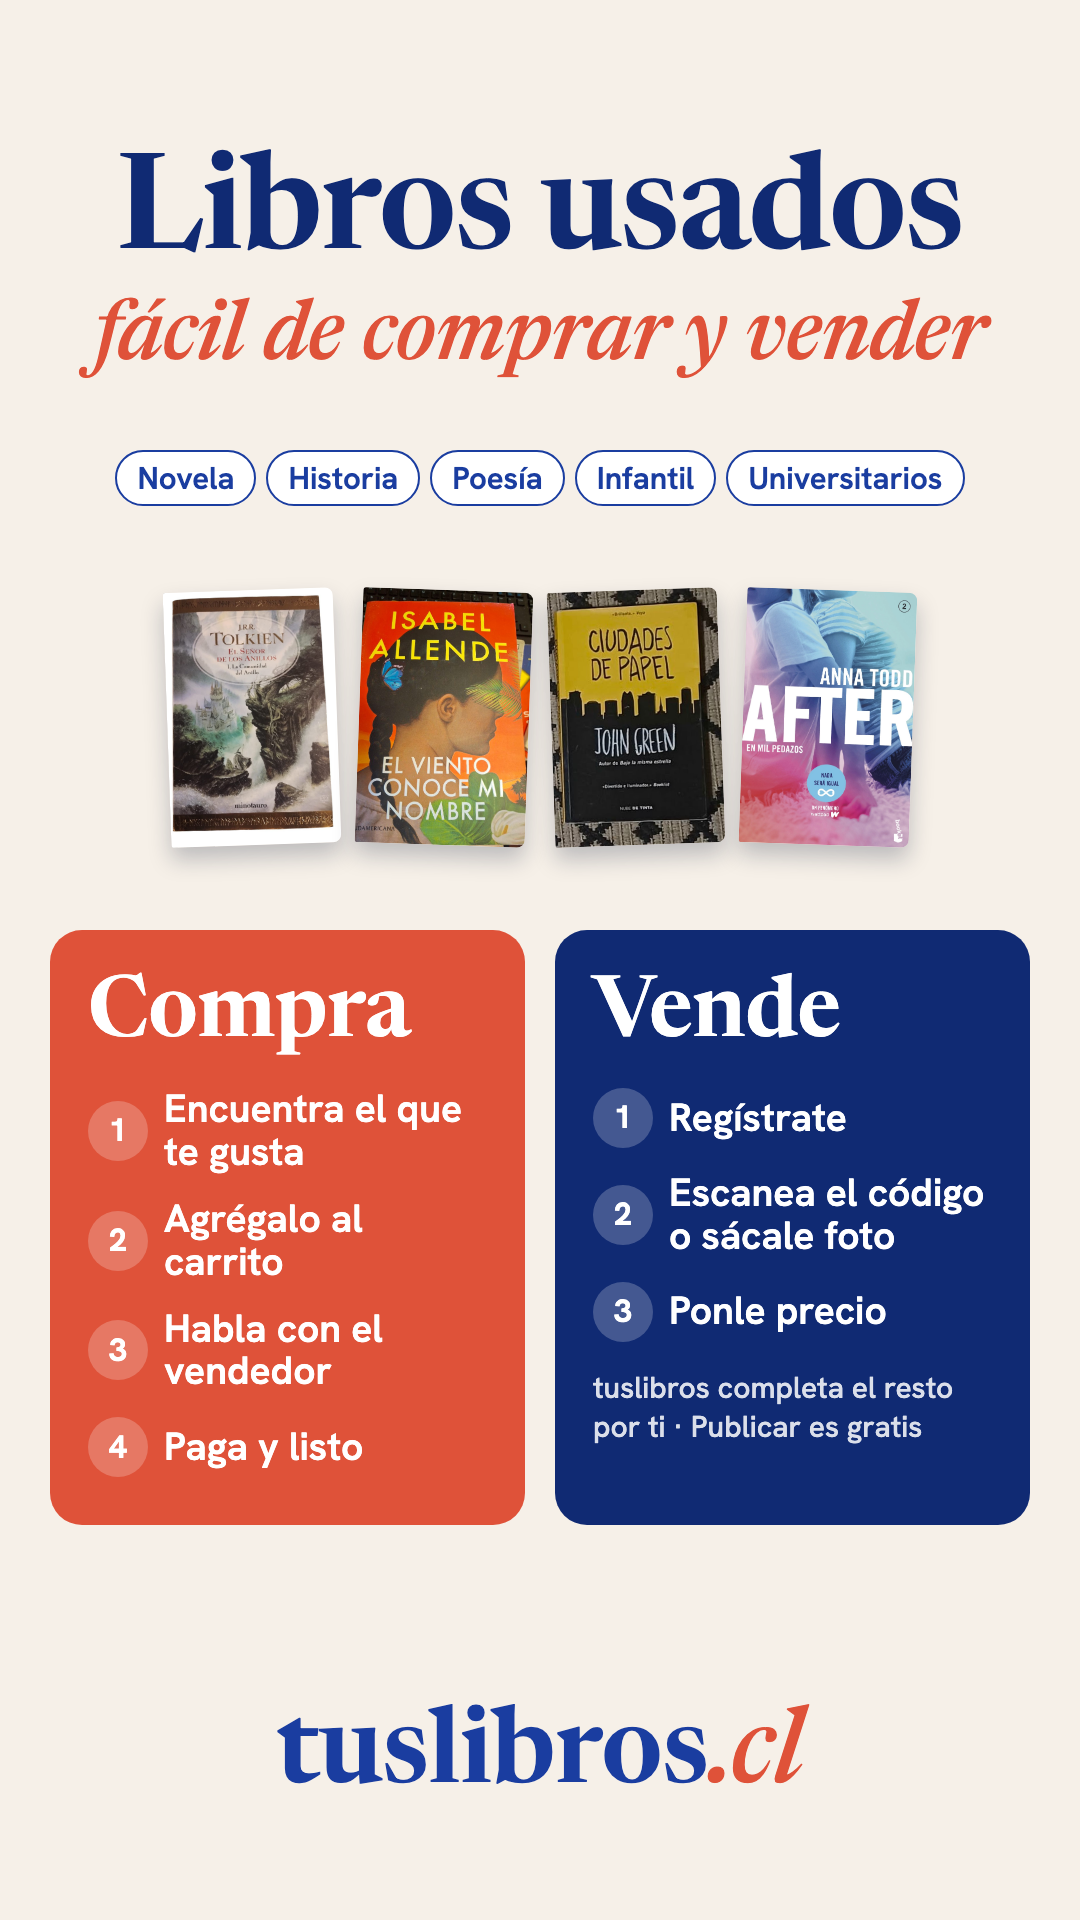
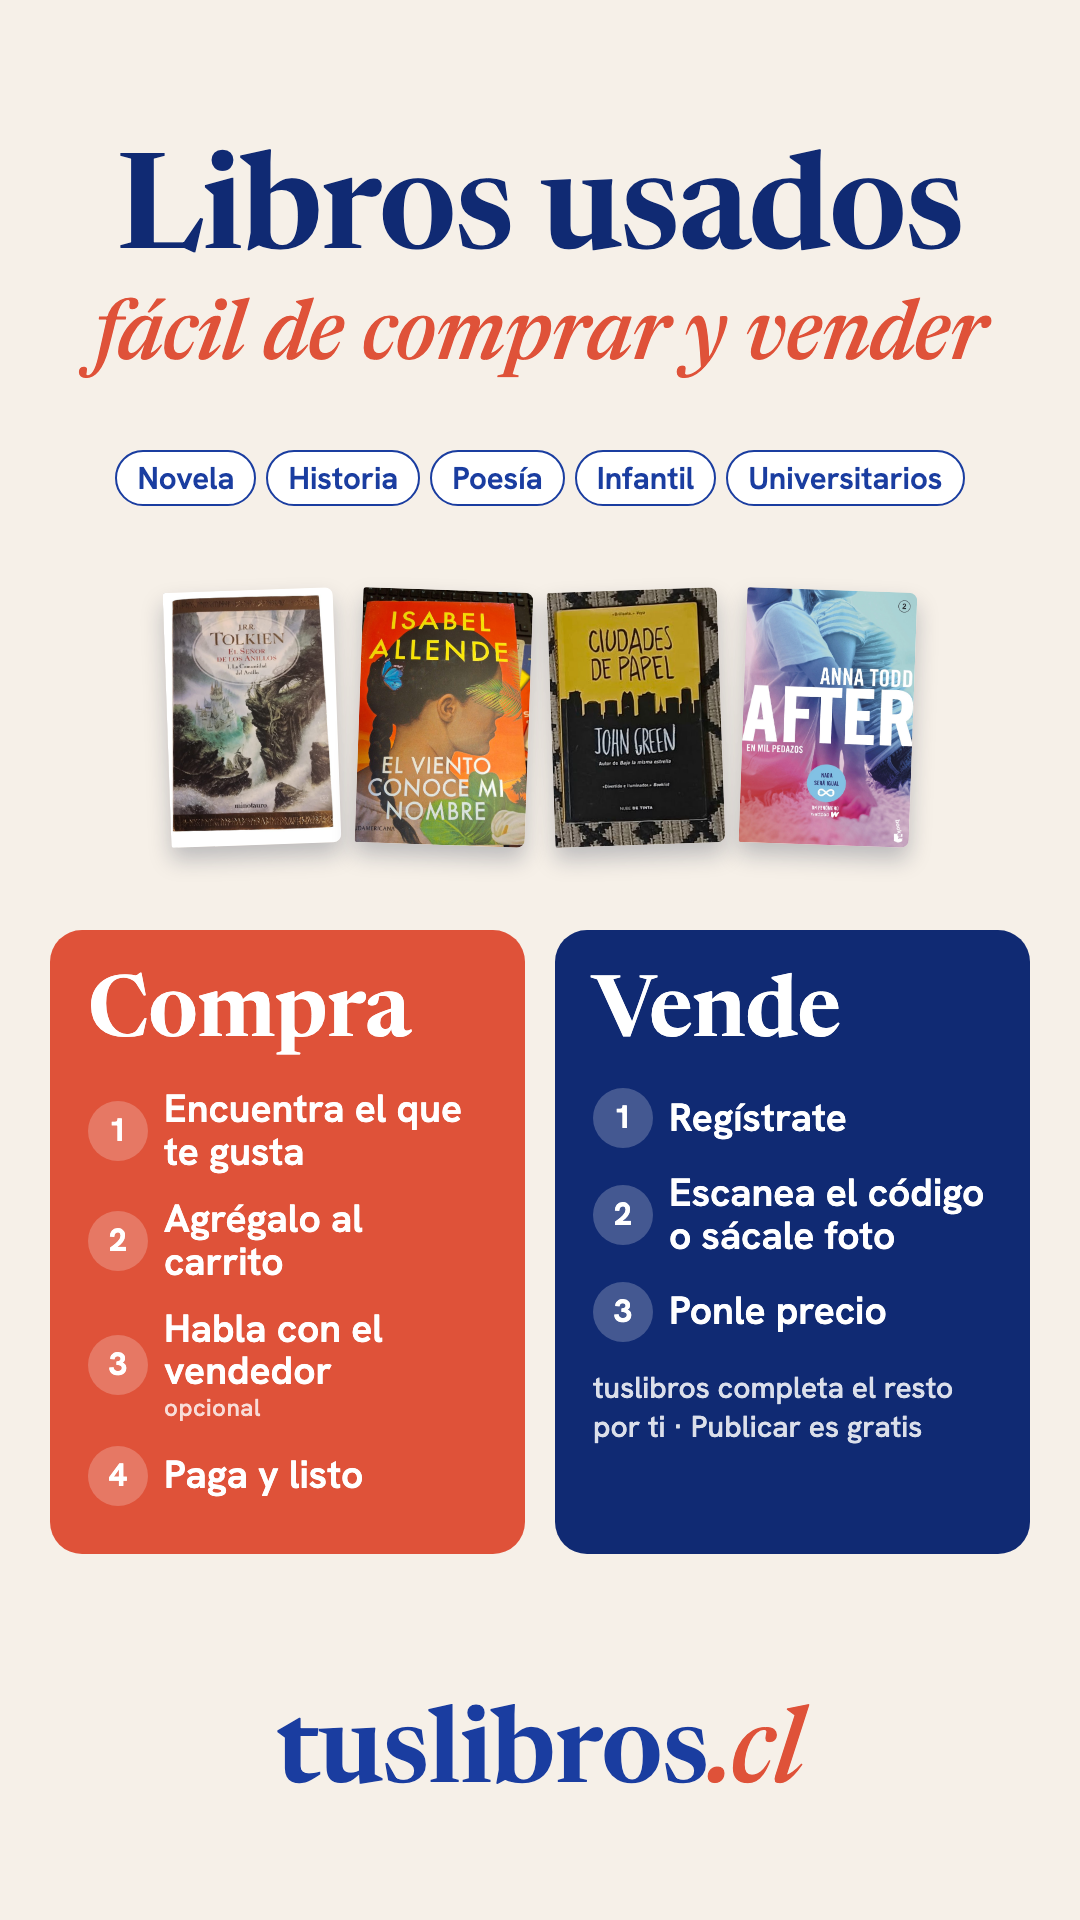
docs(piezas): difusión — «habla con el vendedor» es opcional (definitivas)

Changed region(s): [[0.0306, 0.6875, 0.4889, 0.8125], [0.5194, 0.7812, 0.9778, 0.8125]]

diff --git a/docs/piezas/difusion_amiga_2026-09-27.html b/docs/piezas/difusion_amiga_2026-09-27.html
@@ -35,6 +35,7 @@
   .col ol{list-style:none;display:grid;gap:16px}
   .col li{display:flex;align-items:center;gap:16px;font-size:36px;font-weight:600;line-height:1.1}
   .col li span{flex-shrink:0;width:52px;height:52px;border-radius:50%;background:rgba(255,255,255,.22);display:flex;align-items:center;justify-content:center;font-size:28px;font-weight:700}
+  .col li small.opc{display:block;font-size:.62em;font-weight:500;opacity:.8;margin-top:2px;letter-spacing:.02em}
   .col .nota{margin-top:20px;font-size:26px;opacity:.85;font-weight:500}
   .url{text-align:center;font-family:Newsreader,serif;font-weight:600;color:#1A3DA0}
   .url i{color:#DF5239;font-weight:500}
@@ -79,7 +80,7 @@
   <div class="cols">
     <div class="col compra">
       <h3>Compra</h3>
-      <ol><li><span>1</span>Encuentra el que te gusta</li><li><span>2</span>Agrégalo al carrito</li><li><span>3</span>Habla con el vendedor</li><li><span>4</span>Paga y listo</li></ol>
+      <ol><li><span>1</span>Encuentra el que te gusta</li><li><span>2</span>Agrégalo al carrito</li><li><span>3</span><div>Habla con el vendedor<small class="opc">opcional</small></div></li><li><span>4</span>Paga y listo</li></ol>
     </div>
     <div class="col vende">
       <h3>Vende</h3>

diff --git a/docs/TABLERO_SESION_2026_09_24.md b/docs/TABLERO_SESION_2026_09_24.md
@@ -167,7 +167,7 @@ Precios y pisos en `docs_desde_claude/PISOS_LIBROS_VERO_2026-09.md` (privado: el
 - 24-09 — sección creada a pedido de Vero, a partir de su captura de Mercado Libre.
 - 27-09 — **Piezas de psicología hechas** (pedido de Vero): `docs/piezas/psicologia_compradores_2026-09-27.png` («¿Cuánto cuesta entender a Freud?», con portadas reales de Freud, Jung, Piaget y Maturana) y `psicologia_vendedores_2026-09-27.png` («¿Tus libros de la U siguen en la repisa?», 330 búsquedas en 90 días contra 40 libros). Cifras de la base, fuente en el HTML. **Ojo:** ninguno de los 10 libros de psicología o psiquiatría marcados como vendidos tuvo una orden pagada en el sitio (los marcó el vendedor), así que la pieza no dice «se vendieron acá». Rorschach: no hay en el catálogo ni nadie lo buscó en 180 días; lo más cercano es *Técnicas proyectivas del diagnóstico psicológico* (Anderson y Anderson, $15.000, nicolas). Además, dos **estados de WhatsApp 9:16** con el mínimo de texto: `psicologia_estado_compra_2026-09-27.png` («Psicología usada» + 4 portadas) y `psicologia_estado_venta_2026-09-27.png` («¿Tienes libros de psicología? Véndelos.» + tuslibros.cl/vender).
 - 27-09 — **Estados generales del sitio** (lo que Vero quería de verdad: que cualquiera sepa que existe): `docs/piezas/general_estado_compra_2026-09-27.png` («4.000+ libros usados», 6 portadas reales, «Compra aquí · tuslibros.cl») y `general_estado_vende_2026-09-27.png` («Vende tus libros», Foto · Precio · Listo, «Vende aquí · tuslibros.cl/vender»). Hoy hay 4.186 libros activos, de 165 vendedores y en 74 ciudades. Y una **genérica** que junta las dos: `general_estado_generica_2026-09-27.png` («4.000+ libros usados», 6 portadas, botones «Compra» y «Vende», tuslibros.cl).
-- 27-09 — **Kit de difusión para una amiga de Vero** (estados y grupos de WhatsApp; la gente no entendía qué es ni cómo funciona): `docs/piezas/difusion_estado_2026-09-27.png` (9:16) y `difusion_grupo_2026-09-27.png` (4:5). «Libros usados en todo Chile» · 4.000+ libros · 165 vendedores · 74 ciudades · Compra (Busca el libro · Pídelo · Te llega o lo retiras) · Vende (Sácale foto · Ponle precio · Listo, publicado · Publicar es gratis) · tuslibros.cl. «Pídelo» en vez de «Paga ahí mismo»: no todos los vendedores cobran en el sitio. **En iteración con Vero.** Iteración 2: la línea de cifras pasó a «Fácil de comprar y vender» + categorías con stock real (Novela, Historia, Poesía, Infantil, Universitarios). Iteración 3: fuera «en todo Chile» (no aporta); el título queda «Libros usados · fácil de comprar y vender». Y la **segunda pieza** para el estado, la del clic: `difusion_clic_2026-09-27.png` («¿Buscas un libro o vendes los tuyos? Entra aquí ↓ tuslibros.cl»), para ponerla justo después con el link escrito en el texto. Iteración 4: pasos de compra según Vero → «Agrégalo al carrito · Habla con el vendedor · Paga y listo». Iteración 5: pasos de venta → «Regístrate · Escanea el código o sácale foto · Ponle precio» + «tuslibros completa el resto por ti · Publicar es gratis». Y un **tercer estado, el del Se busca**: `difusion_sebusca_2026-09-27.png` («¿No está el libro que buscas? Pídelo», 3 pedidos reales solo con el título, «Te aviso cuando alguien lo publique», tuslibros.cl/solicitudes). Iteración 6 (final): compra con 4 pasos, «Encuentra el que te gusta» primero. **Definitivas en `docs/piezas/difusion_final/`**: 1_estado_compra_y_vende, 2_estado_se_busca, 3_estado_entra_aqui y para_grupos.
+- 27-09 — **Kit de difusión para una amiga de Vero** (estados y grupos de WhatsApp; la gente no entendía qué es ni cómo funciona): `docs/piezas/difusion_estado_2026-09-27.png` (9:16) y `difusion_grupo_2026-09-27.png` (4:5). «Libros usados en todo Chile» · 4.000+ libros · 165 vendedores · 74 ciudades · Compra (Busca el libro · Pídelo · Te llega o lo retiras) · Vende (Sácale foto · Ponle precio · Listo, publicado · Publicar es gratis) · tuslibros.cl. «Pídelo» en vez de «Paga ahí mismo»: no todos los vendedores cobran en el sitio. **En iteración con Vero.** Iteración 2: la línea de cifras pasó a «Fácil de comprar y vender» + categorías con stock real (Novela, Historia, Poesía, Infantil, Universitarios). Iteración 3: fuera «en todo Chile» (no aporta); el título queda «Libros usados · fácil de comprar y vender». Y la **segunda pieza** para el estado, la del clic: `difusion_clic_2026-09-27.png` («¿Buscas un libro o vendes los tuyos? Entra aquí ↓ tuslibros.cl»), para ponerla justo después con el link escrito en el texto. Iteración 4: pasos de compra según Vero → «Agrégalo al carrito · Habla con el vendedor · Paga y listo». Iteración 5: pasos de venta → «Regístrate · Escanea el código o sácale foto · Ponle precio» + «tuslibros completa el resto por ti · Publicar es gratis». Y un **tercer estado, el del Se busca**: `difusion_sebusca_2026-09-27.png` («¿No está el libro que buscas? Pídelo», 3 pedidos reales solo con el título, «Te aviso cuando alguien lo publique», tuslibros.cl/solicitudes). Iteración 6 (final): compra con 4 pasos, «Encuentra el que te gusta» primero. «Habla con el vendedor» marcado *opcional*. **Definitivas en `docs/piezas/difusion_final/`**: 1_estado_compra_y_vende, 2_estado_se_busca, 3_estado_entra_aqui y para_grupos.
 - 27-09 — ✅ **/solicitudes: lo más nuevo primero y archivo a las 2 semanas** (pedido de Vero). Se quitó el orden por cercanía, que subía los pedidos de la comuna del visitante sin importar la fecha (a Vero le salía primero uno de abril). Los de más de 2 semanas pasan a «Pedidos más antiguos», plegado: hoy son 16 a la vista y 152 archivados. No se borra nada y el aviso al comprador cuando alguien publica su libro sigue igual.
 - 24-09 — captura de **Top10Books** (`/ofertas`): menú por uso (literatura complementaria, técnico y universitario, textos escolares, ofertas), filtro por tramos de precio con conteo ("Hasta $9.900 (17)"), filtro por autor con conteo, etiqueta de % de descuento y "Entrega mañana" en cada libro. Nuestro listado ya filtra por precio (mínimo y máximo) y autor, pero a mano, sin tramos ni conteos. Lo que más sirve es la idea 6f.
 
